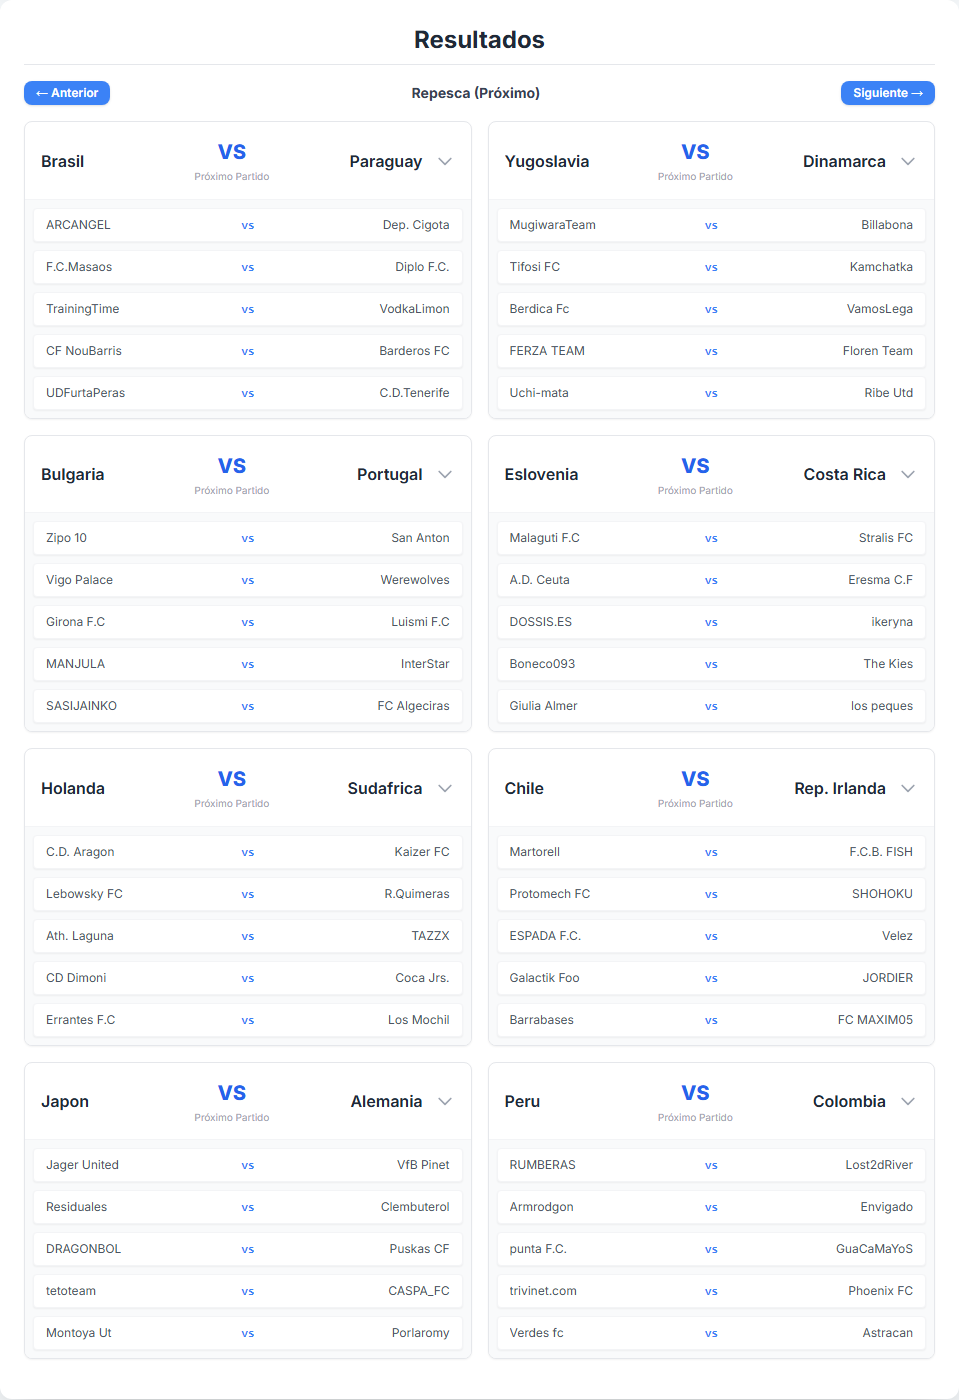
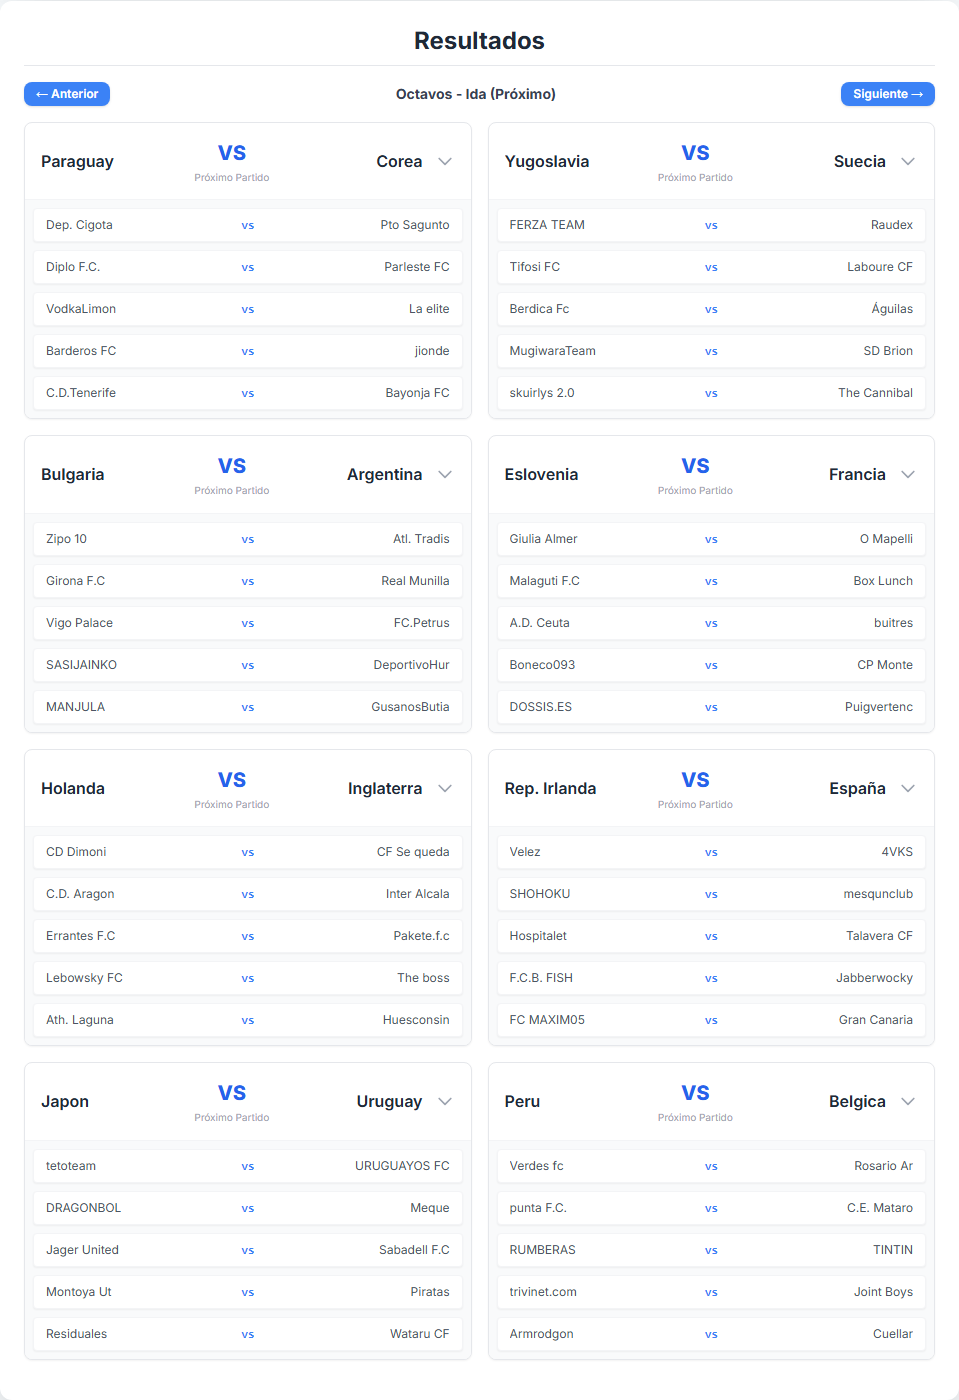
Actualización automática: 2025-11-30 19:40:00

diff --git a/index.html b/index.html
@@ -4682,6 +4682,326 @@
         "visit": "Astracan",
         "jornada": 7,
         "is_scheduled": false
+    },
+    {
+        "local": "Dep. Cigota",
+        "gl": null,
+        "gv": null,
+        "visit": "Pto Sagunto",
+        "jornada": 8,
+        "is_scheduled": true
+    },
+    {
+        "local": "Diplo F.C.",
+        "gl": null,
+        "gv": null,
+        "visit": "Parleste FC",
+        "jornada": 8,
+        "is_scheduled": true
+    },
+    {
+        "local": "VodkaLimon",
+        "gl": null,
+        "gv": null,
+        "visit": "La elite",
+        "jornada": 8,
+        "is_scheduled": true
+    },
+    {
+        "local": "Barderos FC",
+        "gl": null,
+        "gv": null,
+        "visit": "jionde",
+        "jornada": 8,
+        "is_scheduled": true
+    },
+    {
+        "local": "C.D.Tenerife",
+        "gl": null,
+        "gv": null,
+        "visit": "Bayonja FC",
+        "jornada": 8,
+        "is_scheduled": true
+    },
+    {
+        "local": "Zipo 10",
+        "gl": null,
+        "gv": null,
+        "visit": "Atl. Tradis",
+        "jornada": 8,
+        "is_scheduled": true
+    },
+    {
+        "local": "Girona F.C",
+        "gl": null,
+        "gv": null,
+        "visit": "Real Munilla",
+        "jornada": 8,
+        "is_scheduled": true
+    },
+    {
+        "local": "Vigo Palace",
+        "gl": null,
+        "gv": null,
+        "visit": "FC.Petrus",
+        "jornada": 8,
+        "is_scheduled": true
+    },
+    {
+        "local": "SASIJAINKO",
+        "gl": null,
+        "gv": null,
+        "visit": "DeportivoHur",
+        "jornada": 8,
+        "is_scheduled": true
+    },
+    {
+        "local": "MANJULA",
+        "gl": null,
+        "gv": null,
+        "visit": "GusanosButia",
+        "jornada": 8,
+        "is_scheduled": true
+    },
+    {
+        "local": "CD Dimoni",
+        "gl": null,
+        "gv": null,
+        "visit": "CF Se queda",
+        "jornada": 8,
+        "is_scheduled": true
+    },
+    {
+        "local": "C.D. Aragon",
+        "gl": null,
+        "gv": null,
+        "visit": "Inter Alcala",
+        "jornada": 8,
+        "is_scheduled": true
+    },
+    {
+        "local": "Errantes F.C",
+        "gl": null,
+        "gv": null,
+        "visit": "Pakete.f.c",
+        "jornada": 8,
+        "is_scheduled": true
+    },
+    {
+        "local": "Lebowsky FC",
+        "gl": null,
+        "gv": null,
+        "visit": "The boss",
+        "jornada": 8,
+        "is_scheduled": true
+    },
+    {
+        "local": "Ath. Laguna",
+        "gl": null,
+        "gv": null,
+        "visit": "Huesconsin",
+        "jornada": 8,
+        "is_scheduled": true
+    },
+    {
+        "local": "tetoteam",
+        "gl": null,
+        "gv": null,
+        "visit": "URUGUAYOS FC",
+        "jornada": 8,
+        "is_scheduled": true
+    },
+    {
+        "local": "DRAGONBOL",
+        "gl": null,
+        "gv": null,
+        "visit": "Meque",
+        "jornada": 8,
+        "is_scheduled": true
+    },
+    {
+        "local": "Jager United",
+        "gl": null,
+        "gv": null,
+        "visit": "Sabadell F.C",
+        "jornada": 8,
+        "is_scheduled": true
+    },
+    {
+        "local": "Montoya Ut",
+        "gl": null,
+        "gv": null,
+        "visit": "Piratas",
+        "jornada": 8,
+        "is_scheduled": true
+    },
+    {
+        "local": "Residuales",
+        "gl": null,
+        "gv": null,
+        "visit": "Wataru CF",
+        "jornada": 8,
+        "is_scheduled": true
+    },
+    {
+        "local": "FERZA TEAM",
+        "gl": null,
+        "gv": null,
+        "visit": "Raudex",
+        "jornada": 8,
+        "is_scheduled": true
+    },
+    {
+        "local": "Tifosi FC",
+        "gl": null,
+        "gv": null,
+        "visit": "Laboure CF",
+        "jornada": 8,
+        "is_scheduled": true
+    },
+    {
+        "local": "Berdica Fc",
+        "gl": null,
+        "gv": null,
+        "visit": "Águilas",
+        "jornada": 8,
+        "is_scheduled": true
+    },
+    {
+        "local": "MugiwaraTeam",
+        "gl": null,
+        "gv": null,
+        "visit": "SD Brion",
+        "jornada": 8,
+        "is_scheduled": true
+    },
+    {
+        "local": "skuirlys 2.0",
+        "gl": null,
+        "gv": null,
+        "visit": "The Cannibal",
+        "jornada": 8,
+        "is_scheduled": true
+    },
+    {
+        "local": "Giulia Almer",
+        "gl": null,
+        "gv": null,
+        "visit": "O Mapelli",
+        "jornada": 8,
+        "is_scheduled": true
+    },
+    {
+        "local": "Malaguti F.C",
+        "gl": null,
+        "gv": null,
+        "visit": "Box Lunch",
+        "jornada": 8,
+        "is_scheduled": true
+    },
+    {
+        "local": "A.D. Ceuta",
+        "gl": null,
+        "gv": null,
+        "visit": "buitres",
+        "jornada": 8,
+        "is_scheduled": true
+    },
+    {
+        "local": "Boneco093",
+        "gl": null,
+        "gv": null,
+        "visit": "CP Monte",
+        "jornada": 8,
+        "is_scheduled": true
+    },
+    {
+        "local": "DOSSIS.ES",
+        "gl": null,
+        "gv": null,
+        "visit": "Puigvertenc",
+        "jornada": 8,
+        "is_scheduled": true
+    },
+    {
+        "local": "Velez",
+        "gl": null,
+        "gv": null,
+        "visit": "4VKS",
+        "jornada": 8,
+        "is_scheduled": true
+    },
+    {
+        "local": "SHOHOKU",
+        "gl": null,
+        "gv": null,
+        "visit": "mesqunclub",
+        "jornada": 8,
+        "is_scheduled": true
+    },
+    {
+        "local": "Hospitalet",
+        "gl": null,
+        "gv": null,
+        "visit": "Talavera CF",
+        "jornada": 8,
+        "is_scheduled": true
+    },
+    {
+        "local": "F.C.B. FISH",
+        "gl": null,
+        "gv": null,
+        "visit": "Jabberwocky",
+        "jornada": 8,
+        "is_scheduled": true
+    },
+    {
+        "local": "FC MAXIM05",
+        "gl": null,
+        "gv": null,
+        "visit": "Gran Canaria",
+        "jornada": 8,
+        "is_scheduled": true
+    },
+    {
+        "local": "Verdes fc",
+        "gl": null,
+        "gv": null,
+        "visit": "Rosario Ar",
+        "jornada": 8,
+        "is_scheduled": true
+    },
+    {
+        "local": "punta F.C.",
+        "gl": null,
+        "gv": null,
+        "visit": "C.E. Mataro",
+        "jornada": 8,
+        "is_scheduled": true
+    },
+    {
+        "local": "RUMBERAS",
+        "gl": null,
+        "gv": null,
+        "visit": "TINTIN",
+        "jornada": 8,
+        "is_scheduled": true
+    },
+    {
+        "local": "trivinet.com",
+        "gl": null,
+        "gv": null,
+        "visit": "Joint Boys",
+        "jornada": 8,
+        "is_scheduled": true
+    },
+    {
+        "local": "Armrodgon",
+        "gl": null,
+        "gv": null,
+        "visit": "Cuellar",
+        "jornada": 8,
+        "is_scheduled": true
     }
 ];
 
